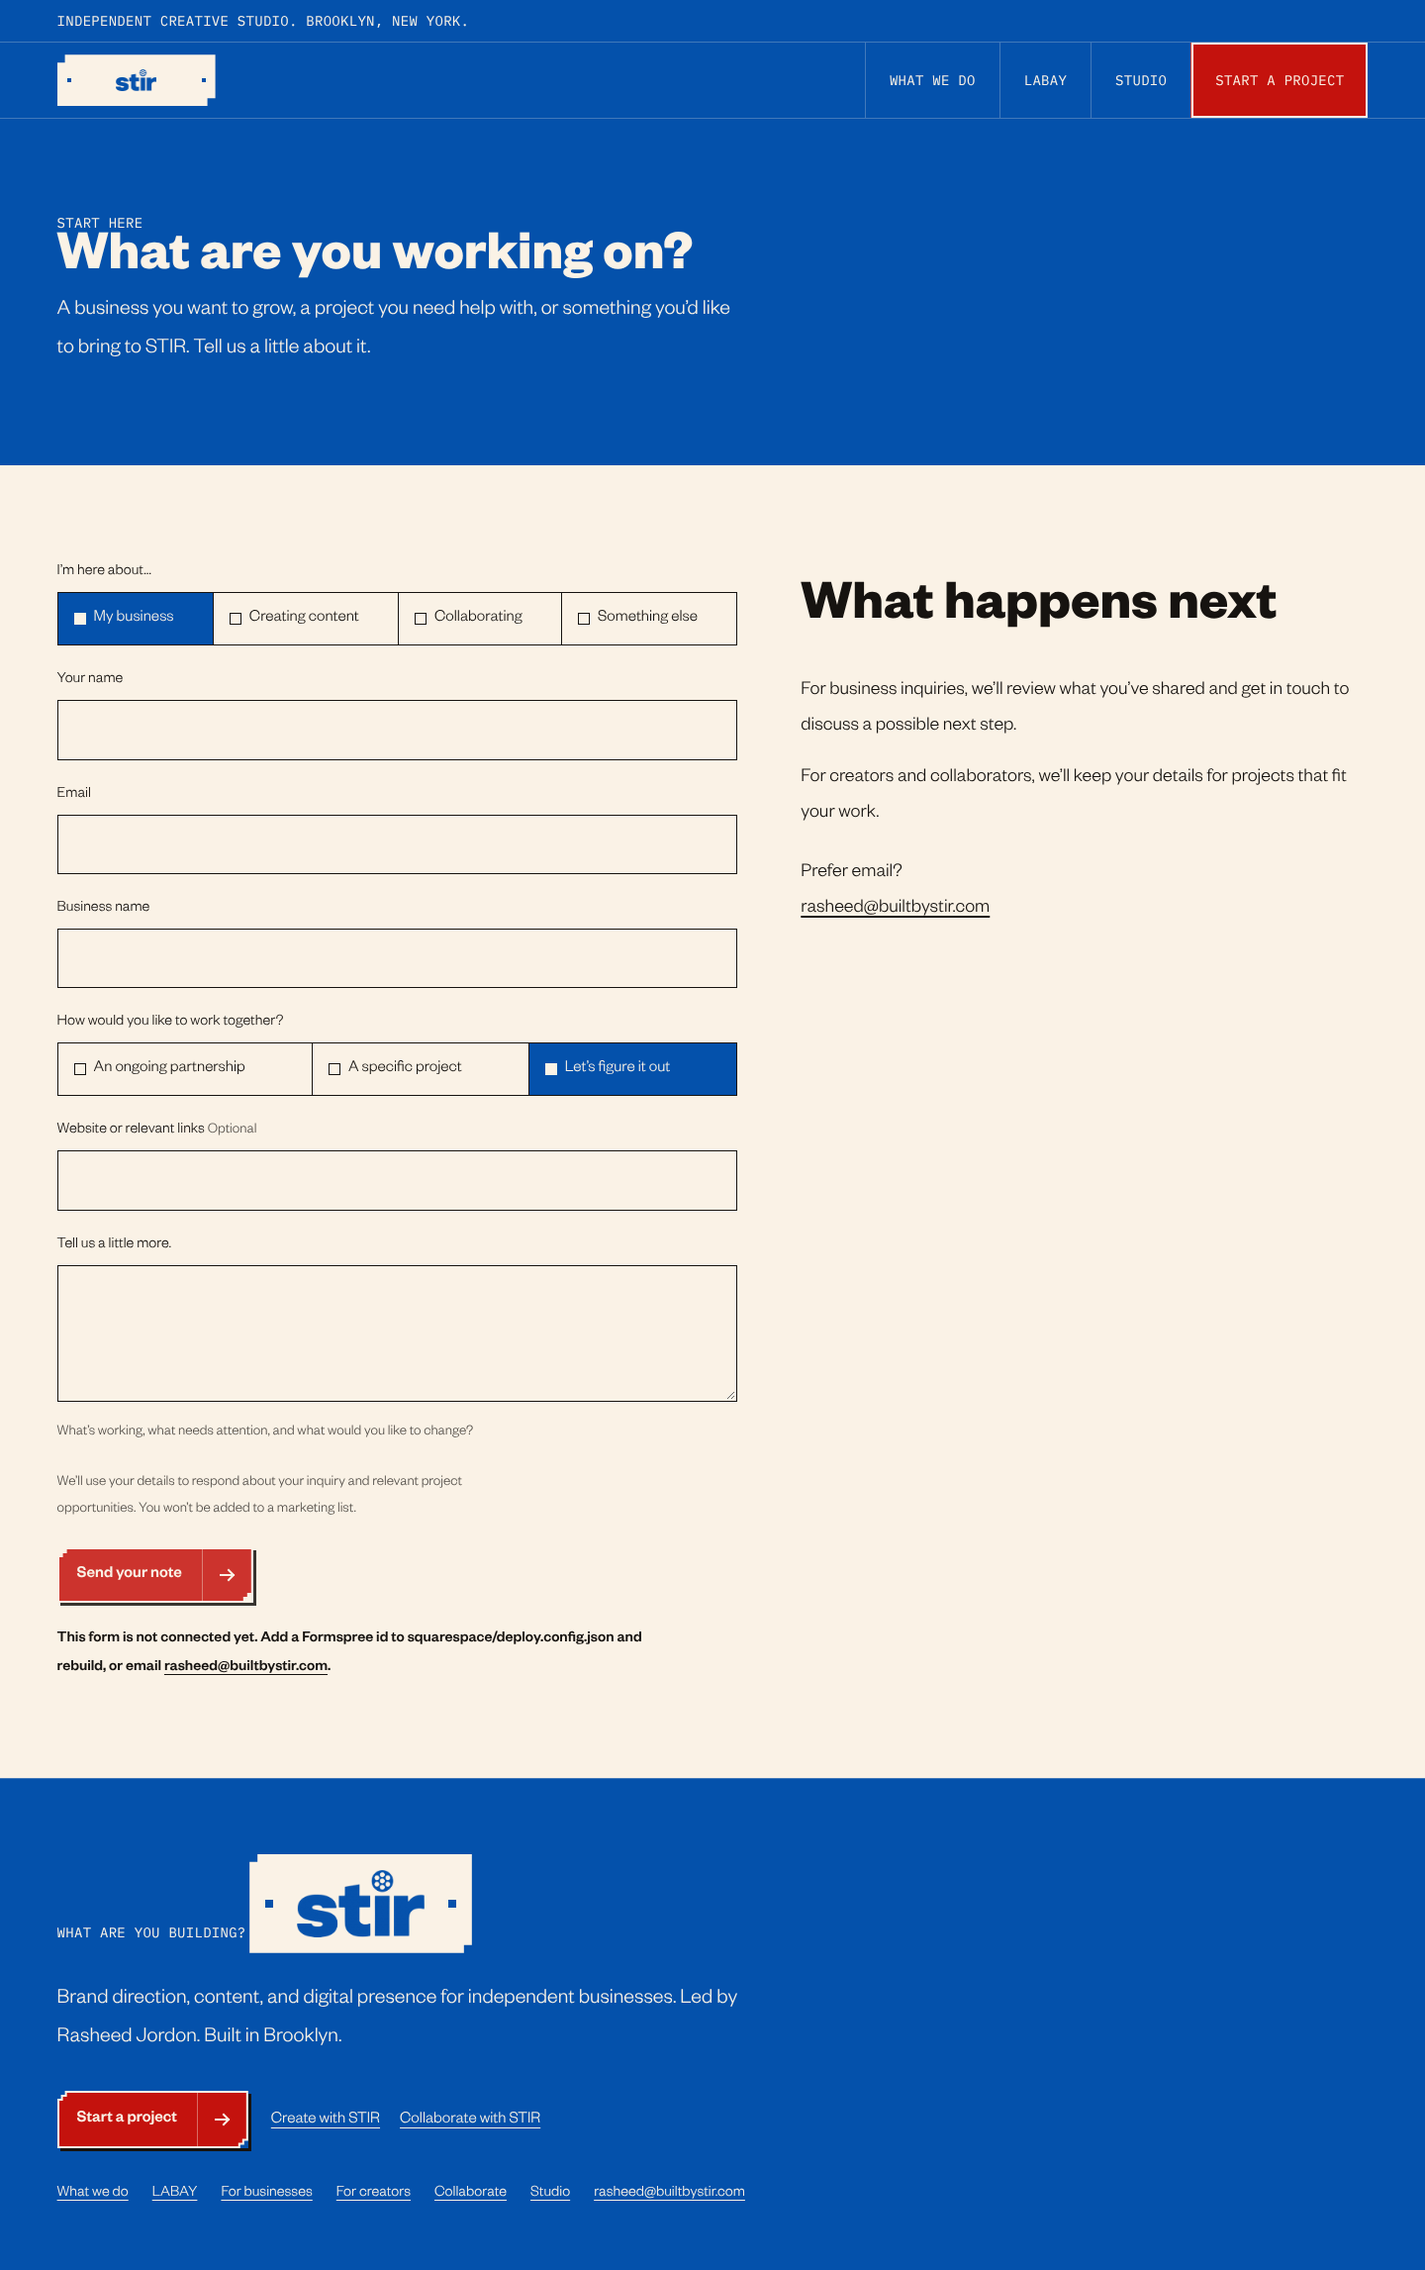
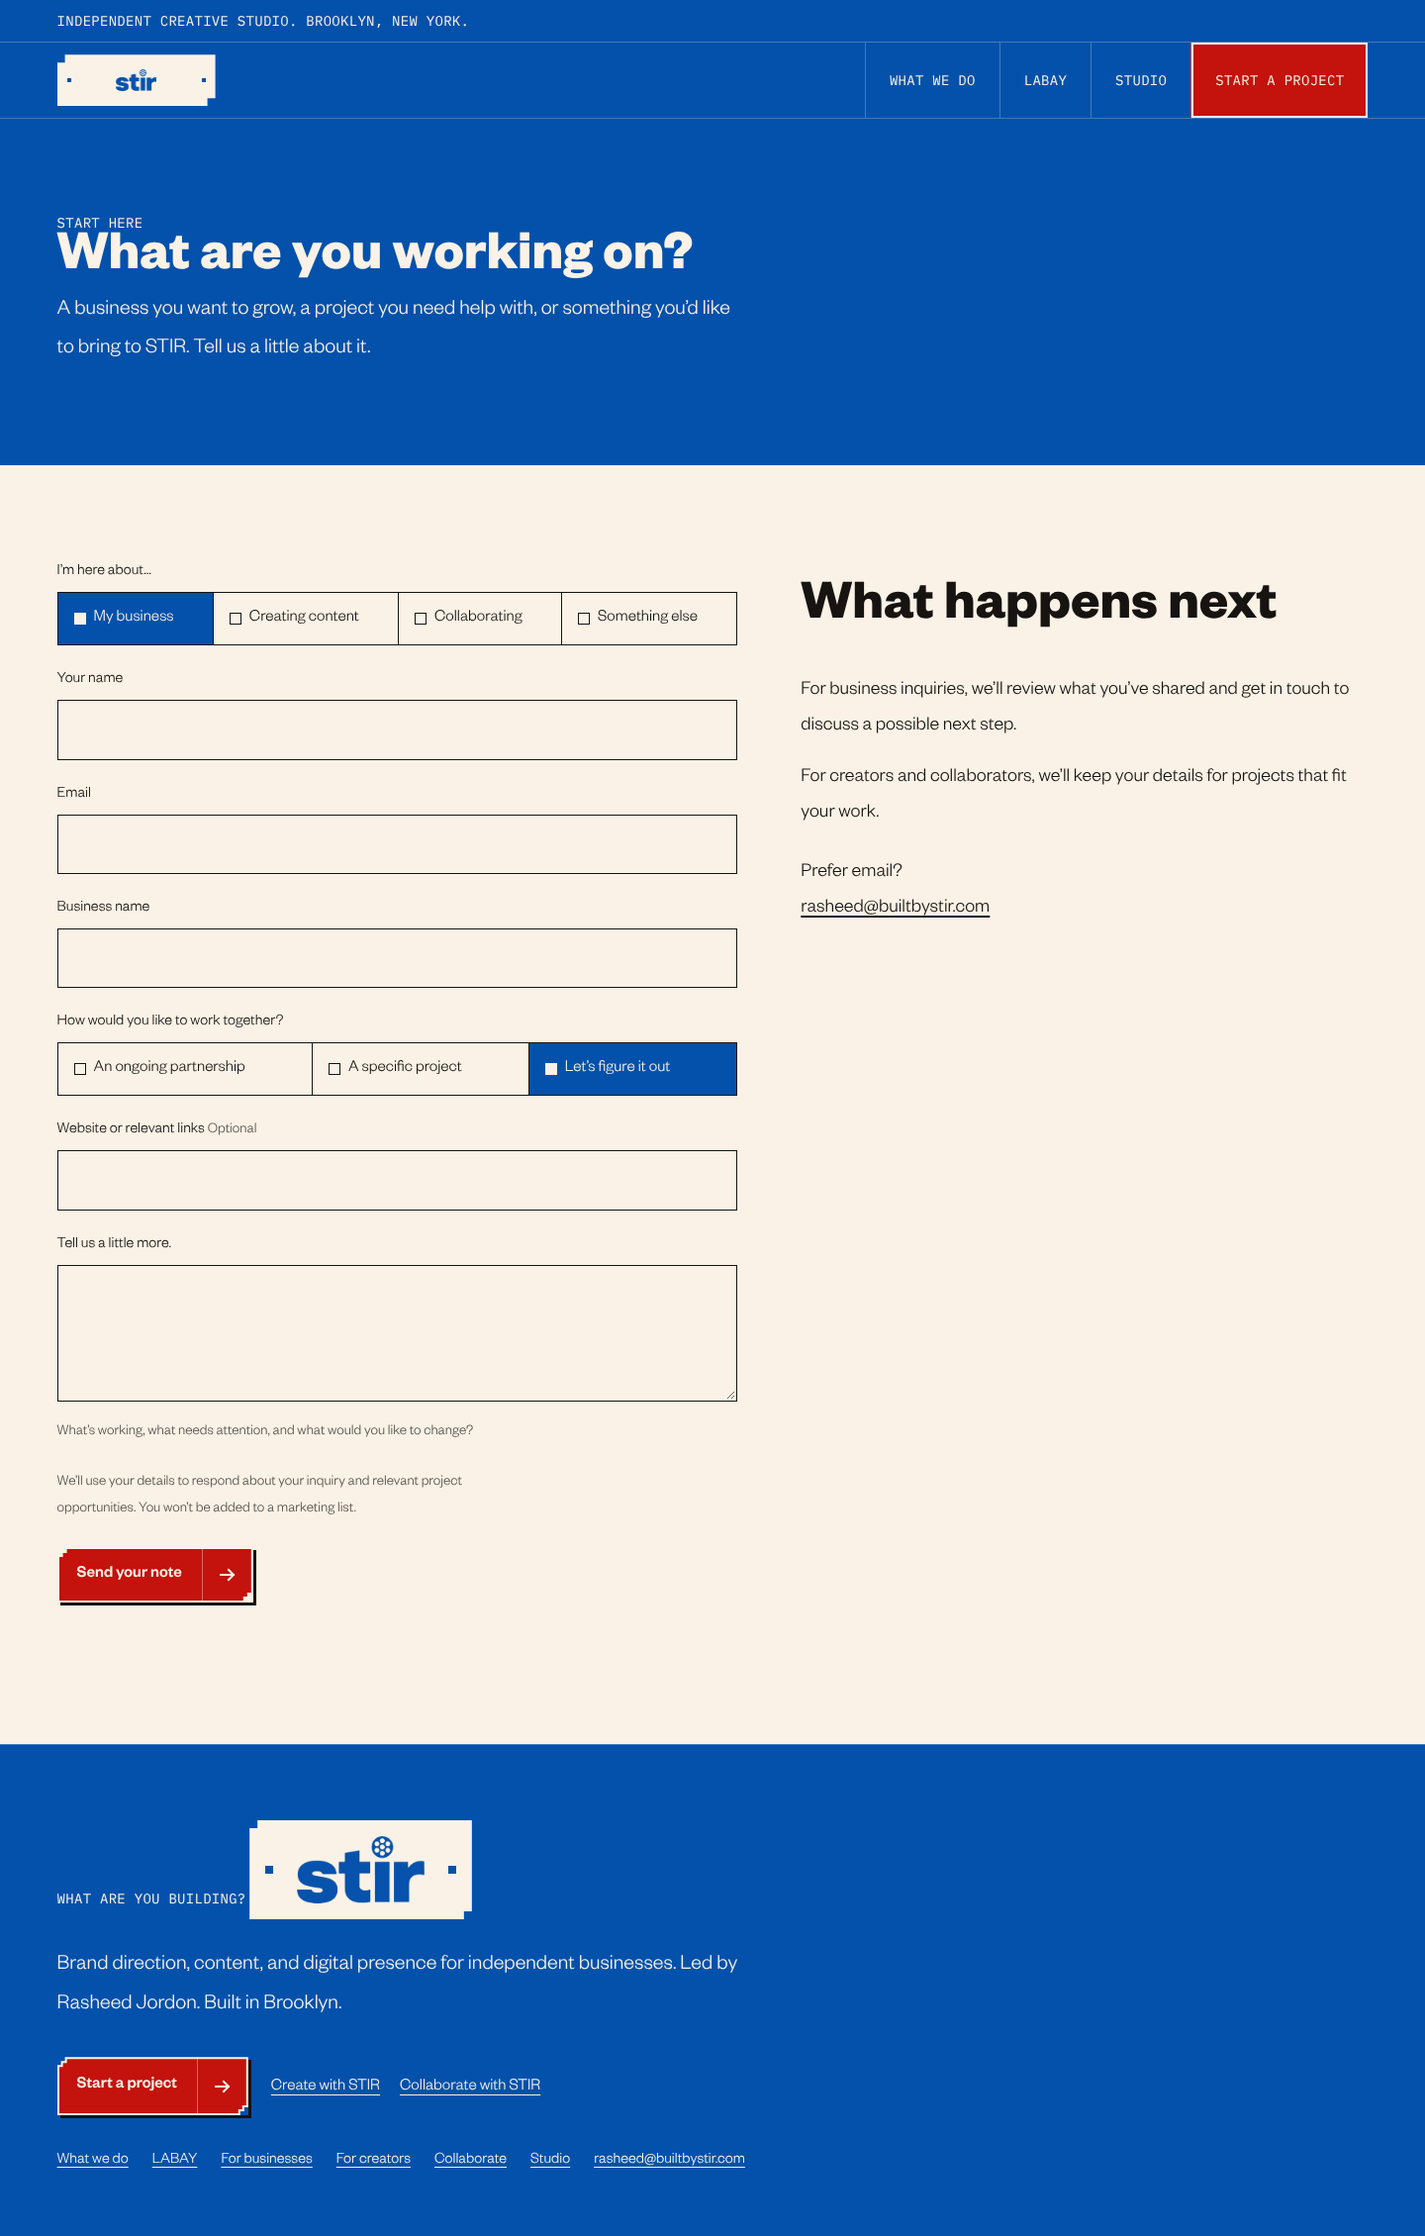
Wire the form to Formspree on both builds
One endpoint, one inbox. Netlify Forms only works on Netlify, which is
why the Squarespace kit shipped with its submit button disabled; the
main site now uses the same Formspree endpoint so the two builds behave
identically and there is a single path to verify rather than two.

The id lives in squarespace/deploy.config.json and nothing else
references it. Reverting the Netlify build to Netlify Forms is four
attributes on contact.html, documented in the README.

Submission is over fetch, so the visitor stays on the page and gets the
real outcome: the approved success wording only after the endpoint
accepts, and on failure the approved error with every answer left
exactly as typed. Without JavaScript the form keeps a real action and
method and posts normally.

Verified without sending anything: scene/qa/submit.mjs intercepts every
request to formspree.io and answers it locally, which exercises both
outcomes. Accepted — posts to the right endpoint, answers and honeypot
and route type all in the body, approved success wording, button
settles, form clears, visitor stays put. Rejected — approved error
wording, answers still in the fields, button usable again.

scene/qa/intake.mjs now also blocks formspree.io outright. It only
blocked /contact before, which was fine while the form posted there; a
validation change could otherwise have filed a real record in the
owner's inbox from a test run.

Still not verified: actual delivery. Formspree holds the first
[…]

diff --git a/assets/stir.js b/assets/stir.js
@@ -242,13 +242,7 @@ document.documentElement.classList.add('js');
     if (e) e.checked = true;
   }
 
-  /* Arriving back at ?sent=1 is Netlify's own redirect after it has
-     accepted the submission. Nothing here claims success on its own. */
   var status = document.getElementById('status');
-  if (new URLSearchParams(location.search).has('sent')) {
-    status.textContent = 'Thanks — that reached STIR. You will get a reply at the address you gave.';
-    form.reset();
-  }
 
   var CHECKS = [
     ['f-name', 'e-name', function (v) { return v.trim().length > 0; }],
@@ -256,9 +250,10 @@ document.documentElement.classList.add('js');
     ['f-message', 'e-message', function (v) { return v.trim().length > 0; }],
   ];
   var busy = false;
+  var btn = document.getElementById('submit');
+  var label = btn.querySelector('.action-label');
 
-  form.addEventListener('submit', function (e) {
-    if (busy) { e.preventDefault(); return; }
+  function valid() {
     var bad = null;
     CHECKS.forEach(function (c) {
       var f = document.getElementById(c[0]), err = document.getElementById(c[1]);
@@ -267,71 +262,50 @@ document.documentElement.classList.add('js');
       err.hidden = ok;
       if (!ok && !bad) bad = f;
     });
+    return bad;
+  }
+  function settle(msg) {
+    busy = false;
+    btn.removeAttribute('aria-busy');
+    label.textContent = 'Send your note';
+    status.textContent = msg;
+  }
+
+  /* Submitted over fetch so the visitor stays on the page and gets the
+     real outcome: success only after the endpoint accepts it, and on
+     failure the answers are left exactly as typed. Without JavaScript
+     this is an ordinary POST and the endpoint answers in its own page,
+     which is why the form keeps a real action and method. */
+  form.addEventListener('submit', function (e) {
+    if (busy) { e.preventDefault(); return; }
+    var bad = valid();
     if (bad) {
       e.preventDefault();
-      status.textContent = 'Your note couldn\u2019t be sent. Please try again, or email rasheed@builtbystir.com. Your answers are still here.';
+      status.textContent = 'Check the highlighted fields and send again.';
       bad.focus();
       return;
     }
-    /* The real request is happening now. The label says Sending, the
-       button is blocked against a second click, and nothing claims the
-       submission succeeded — only Netlify's redirect does that. */
+    if (!window.fetch || !window.FormData) return;   /* let it post normally */
+    e.preventDefault();
+
     busy = true;
-    var btn = document.getElementById('submit');
     btn.setAttribute('aria-busy', 'true');
-    btn.querySelector('.action-label').textContent = 'Sending…';
+    label.textContent = 'Sending\u2026';
     status.textContent = '';
-  });
-})();
 
-/* ════════════════════════════════════════════════════════════════════
-   C04 — clips play on intent, never before.
-
-   Each tile ships a poster image and a <template> holding the source.
-   Nothing downloads until someone presses Play, so a page carrying
-   eight clips still weighs what eight stills weigh. No hover playback,
-   no autoplay, and only one clip runs at a time.
-   ════════════════════════════════════════════════════════════════════ */
-(function () {
-  'use strict';
-  var frames = document.querySelectorAll('.tile-frame[data-clip]');
-  if (!frames.length) return;
-  var playing = null;
-
-  function stop(frame) {
-    var v = frame.querySelector('video');
-    if (v) { v.pause(); v.remove(); }
-    frame.removeAttribute('data-playing');
-    frame.querySelector('.tile-play').textContent = 'Play';
-    frame.setAttribute('aria-label', frame.getAttribute('data-label'));
-  }
-
-  frames.forEach(function (frame) {
-    frame.setAttribute('data-label', frame.getAttribute('aria-label'));
-    frame.addEventListener('click', function () {
-      if (frame.getAttribute('data-playing') === 'true') { stop(frame); playing = null; return; }
-      if (playing && playing !== frame) stop(playing);
-
-      var src = frame.querySelector('template').getAttribute('data-src');
-      var v = document.createElement('video');
-      v.muted = true;             /* no sound, ever, without a control */
-      v.defaultMuted = true;
-      v.loop = true;
-      v.playsInline = true;
-      v.setAttribute('playsinline', '');
-      v.setAttribute('muted', '');
-      v.setAttribute('aria-hidden', 'true');
-      v.preload = 'auto';
-      v.src = src;
-      v.addEventListener('error', function () { stop(frame); playing = null; });
-      frame.appendChild(v);
-      var r = v.play();
-      if (r && r.catch) r.catch(function () { stop(frame); playing = null; });
-
-      frame.setAttribute('data-playing', 'true');
-      frame.querySelector('.tile-play').textContent = 'Pause';
-      frame.setAttribute('aria-label', 'Pause ' + frame.getAttribute('data-label').replace(/^Play /, ''));
-      playing = frame;
+    fetch(form.action, {
+      method: 'POST',
+      body: new FormData(form),
+      headers: { Accept: 'application/json' }
+    }).then(function (r) {
+      if (!r.ok) throw new Error('rejected ' + r.status);
+      settle('Your note is in. Thanks for introducing yourself.');
+      form.reset();
+      applyType(form.querySelector('input[name="type"]:checked').value);
+    }).catch(function () {
+      /* Nothing is cleared: the answers are still in the fields. */
+      settle('Your note couldn\u2019t be sent. Please try again, or email ' +
+             'rasheed@builtbystir.com. Your answers are still here.');
     });
   });
 })();

diff --git a/squarespace/_preview-page-contact.html b/squarespace/_preview-page-contact.html
@@ -100,10 +100,9 @@
       <!-- The stored `type` values are unchanged — business / creator /
            collaborator / general — so the visible labels can be
            rewritten without touching the backend mapping. -->
-      <form class="inquiry" name="inquiry" method="POST" data-netlify="true"
-            netlify-honeypot="bot-field" action="/contact?sent=1" id="inquiry" novalidate>
-        <input type="hidden" name="form-name" value="inquiry">
-        <p class="hp"><label>Leave this empty: <input name="bot-field" tabindex="-1" autocomplete="off"></label></p>
+      <form class="inquiry" name="inquiry" method="POST" action="https://formspree.io/f/mnppgeyr" id="inquiry" novalidate>
+        
+        <p class="hp"><label>Leave this empty: <input name="_gotcha" tabindex="-1" autocomplete="off"></label></p>
 
         <div class="field-row">
           <span class="field-label" id="type-label">I&rsquo;m here about&hellip;</span>
@@ -157,11 +156,11 @@
           to respond about your inquiry and relevant project opportunities. You won&rsquo;t be added to a
           marketing list.</p>
 
-        <button class="action" type="submit" id="submit" disabled>
+        <button class="action" type="submit" id="submit">
           <span class="action-label">Send your note</span>
           <span class="action-arrow"><svg class="arr" aria-hidden="true"><use href="#arr"/></svg></span>
         </button>
-        <p class="form-status" id="status" role="status">This form is not connected yet. Add a Formspree id to squarespace/deploy.config.json and rebuild, or email <a class="inline" href="mailto:rasheed@builtbystir.com">rasheed@builtbystir.com</a>.</p>
+        <p class="form-status" id="status" role="status"></p>
       </form>
 
       <div>

diff --git a/squarespace/ready/09-page-contact.html b/squarespace/ready/09-page-contact.html
@@ -52,10 +52,9 @@
       <!-- The stored `type` values are unchanged — business / creator /
            collaborator / general — so the visible labels can be
            rewritten without touching the backend mapping. -->
-      <form class="inquiry" name="inquiry" method="POST" data-netlify="true"
-            netlify-honeypot="bot-field" action="/contact?sent=1" id="inquiry" novalidate>
-        <input type="hidden" name="form-name" value="inquiry">
-        <p class="hp"><label>Leave this empty: <input name="bot-field" tabindex="-1" autocomplete="off"></label></p>
+      <form class="inquiry" name="inquiry" method="POST" action="https://formspree.io/f/mnppgeyr" id="inquiry" novalidate>
+        
+        <p class="hp"><label>Leave this empty: <input name="_gotcha" tabindex="-1" autocomplete="off"></label></p>
 
         <div class="field-row">
           <span class="field-label" id="type-label">I&rsquo;m here about&hellip;</span>
@@ -109,11 +108,11 @@
           to respond about your inquiry and relevant project opportunities. You won&rsquo;t be added to a
           marketing list.</p>
 
-        <button class="action" type="submit" id="submit" disabled>
+        <button class="action" type="submit" id="submit">
           <span class="action-label">Send your note</span>
           <span class="action-arrow"><svg class="arr" aria-hidden="true"><use href="#arr"/></svg></span>
         </button>
-        <p class="form-status" id="status" role="status">This form is not connected yet. Add a Formspree id to squarespace/deploy.config.json and rebuild, or email <a class="inline" href="mailto:rasheed@builtbystir.com">rasheed@builtbystir.com</a>.</p>
+        <p class="form-status" id="status" role="status"></p>
       </form>
 
       <div>

diff --git a/contact.html b/contact.html
@@ -74,10 +74,15 @@
       <!-- The stored `type` values are unchanged — business / creator /
            collaborator / general — so the visible labels can be
            rewritten without touching the backend mapping. -->
-      <form class="inquiry" name="inquiry" method="POST" data-netlify="true"
-            netlify-honeypot="bot-field" action="/contact?sent=1" id="inquiry" novalidate>
-        <input type="hidden" name="form-name" value="inquiry">
-        <p class="hp"><label>Leave this empty: <input name="bot-field" tabindex="-1" autocomplete="off"></label></p>
+      <!-- One endpoint for both builds. Netlify Forms only works on
+           Netlify, so the Squarespace kit had to use something else;
+           running the same endpoint here means one inbox and one path
+           to verify rather than two. Swap the action back to
+           /contact?sent=1 with data-netlify="true" to return to
+           Netlify Forms. -->
+      <form class="inquiry" name="inquiry" method="POST"
+            action="https://formspree.io/f/mnppgeyr" id="inquiry" novalidate>
+        <p class="hp"><label>Leave this empty: <input name="_gotcha" tabindex="-1" autocomplete="off"></label></p>
 
         <div class="field-row">
           <span class="field-label" id="type-label">I&rsquo;m here about&hellip;</span>

diff --git a/squarespace/README.md b/squarespace/README.md
@@ -93,26 +93,24 @@ The stylesheet already neutralises Squarespace's padded wrappers and
 hides its header and footer on these pages, so their page settings do
 not matter.
 
-### 3 · The form — the one real gap
+### 3 · The form
 
-**Netlify Forms do not work on Squarespace.** The standalone site posts
-to Netlify's own handler; that handler does not exist on another host.
-There are three honest options:
+Both builds post to the same Formspree endpoint, so there is one inbox
+and one path to verify rather than two. Netlify Forms only works on
+Netlify, which is why the Squarespace kit could not use it; running the
+same endpoint on both sides keeps the two builds identical.
 
-1. **Formspree.** formspree.io → New Form → copy the id → put it in
-   `deploy.config.json` as `formspree_id` → re-run the build →
-   re-paste `ready/09-page-contact.html`. The typed routing, the
-   per-route questions and the validation all survive. Submit once
-   yourself to confirm delivery.
-2. **Keep the form on Netlify** and point `/contact` at it. Delivery
-   already works there and is already wired to your inbox. The cost is
-   one hop out of the Squarespace domain.
-3. **A Squarespace Form Block.** Native and reliable, but it cannot do
-   the four-route switching, so the intake becomes one generic form.
+The id lives in `deploy.config.json` as `formspree_id`. Change it there
+and re-run the build; nothing else references it.
 
-**With no `formspree_id` configured the build ships the contact page
-with its submit button disabled and a visible note**, rather than a
-button that silently throws submissions away. That is deliberate.
+**Formspree holds the first submission until you confirm it.** Send one
+yourself from the published page and click the link it emails you —
+until then nothing is delivered, however correct the form is.
+
+To go back to Netlify Forms on the Netlify build only: restore
+`action="/contact?sent=1"`, `data-netlify="true"`,
+`netlify-honeypot="bot-field"` and the hidden `form-name` field on
+`contact.html`. The Squarespace kit cannot use it either way.
 
 ---
 

diff --git a/squarespace/ready/CHECKLIST.md b/squarespace/ready/CHECKLIST.md
@@ -24,8 +24,8 @@ carrying this work and deploy. Nothing below will look right until it is.
 - [ ] Page `/contact` ← `09-page-contact.html`
 - [ ] Every other block removed from those seven pages
 - [ ] Page URLs match the table exactly (the nav links to them)
-- [ ] Form endpoint decided — see README step 3
-- [ ] One real submission sent and received
+- [ ] One real submission sent, and the Formspree confirmation email clicked
+      (Formspree holds the first submission until you do)
 
 ## On the published site
 
